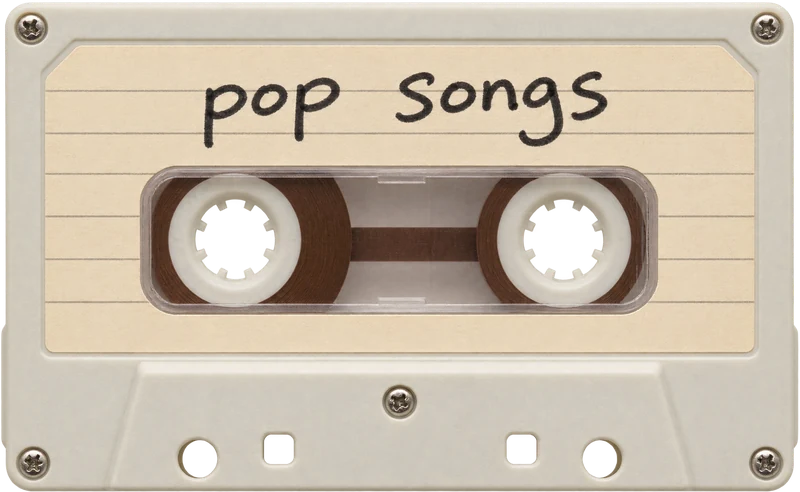
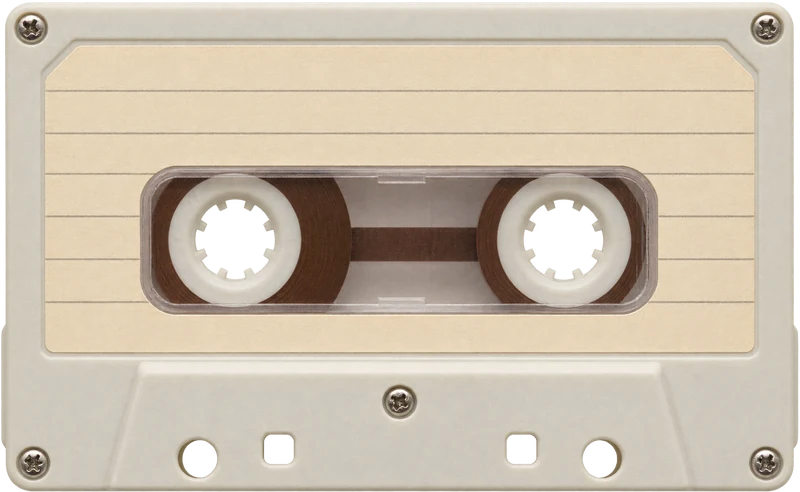
fix: casstte player

Changed region(s): [[0.5, 0.122, 0.7812, 0.3049], [0.25, 0.1524, 0.4375, 0.3049]]

diff --git a/js/player.js b/js/player.js
@@ -62,6 +62,38 @@
         return `<svg viewBox="-50 -50 100 100" aria-hidden="true"><circle r="50" fill="#15110f"/>${teeth}<circle r="17" fill="#2f2c2a"/><circle r="6" fill="#a3a09a"/></svg>`;
     })();
 
+    /* 이름표(마스킹테이프). 그림이 있으면 그림을, 없으면 코드로 그린 테이프를 씁니다 */
+    let tagImageOk = false;
+    if (typeof TAG_IMAGE === "string" && TAG_IMAGE) {
+        const probe = new Image();
+        probe.onload = () => {
+            tagImageOk = true;
+            document
+                .querySelectorAll(".tape-tag")
+                .forEach((tag) => applyTagImage(tag));
+        };
+        probe.src = TAG_IMAGE;
+    }
+    function applyTagImage(tag) {
+        tag.classList.add("has-img");
+        tag.style.backgroundImage = 'url("' + TAG_IMAGE + '")';
+    }
+    function makeTag(info) {
+        const tag = document.createElement("span");
+        tag.className = "tape-tag";
+        tag.style.setProperty(
+            "--tilt",
+            (typeof info.tilt === "number" ? info.tilt : -2) + "deg",
+        );
+        if (info.color) tag.style.setProperty("--tag-ink", info.color);
+        const txt = document.createElement("span");
+        txt.className = "tape-tag-text";
+        txt.textContent = info.text;
+        tag.appendChild(txt);
+        if (tagImageOk) applyTagImage(tag);
+        return tag;
+    }
+
     function makeTape(t) {
         const el = document.createElement("div");
         el.className = "tape";
@@ -76,14 +108,7 @@
             h.innerHTML = HUB_SVG;
             el.appendChild(h);
         }
-        if (t.label && t.label.text) {
-            const p = document.createElement("p");
-            p.className = "tape-label";
-            p.textContent = t.label.text;
-            p.style.top = t.label.top || "22%";
-            p.style.color = t.label.color || "#222";
-            el.appendChild(p);
-        }
+        if (t.tag && t.tag.text) el.appendChild(makeTag(t.tag));
         return el;
     }
 
@@ -680,8 +705,10 @@
         spot.className = "shelf-spot";
         spot.appendChild(makeTape(t));
         const name = document.createElement("span");
+        /* 테이프 하단 이름 제거 
         name.className = "shelf-name";
         name.textContent = t.name;
+        */
         b.append(spot, name);
         b.addEventListener("click", () => chooseTape(t));
         shelf.appendChild(b);

diff --git a/js/tapes.js b/js/tapes.js
@@ -16,15 +16,18 @@
    테이프 항목
    - name  : 선반과 화면에 보이는 테이프 이름
    - image : 테이프 그림
-   - label : 라벨 위에 손글씨로 올릴 글자. 그림에 이미 글씨가 있으면 text 를 "" 로 둡니다.
-             top 은 글자의 세로 위치(테이프 높이 기준), color 는 글자 색입니다.
+   - tag   : 테이프 라벨에 붙는 이름표(마스킹테이프).
+             text  이름표에 쓸 글자
+             color 글자 색 (생략하면 진한 먹색)
+             tilt  기울기, 도 단위 (생략하면 -2)
+             이름표를 떼려면 tag: null 로 두면 됩니다.
    ───────────────────────────────────────────────────────────── */
 const TAPES = [
     {
         id: "coral",
         name: "sunset tape",
         image: "./image/cassettePlayer/tape-coral.webp",
-        label: { text: "sunset tape", top: "18%", color: "#4a1710" },
+        tag: { text: "검정 치마", color: "#4a1710", tilt: -1 },
         tracks: [
             {
                 title: "EVERYTHING",
@@ -68,7 +71,7 @@ const TAPES = [
         id: "blue",
         name: "blue tape",
         image: "./image/cassettePlayer/tape-blue.webp",
-        label: { text: "blue tape", top: "25%", color: "#1b2c8f" },
+        tag: { text: "wave to earth", color: "#1b2c8f", tilt: 1.5 },
         tracks: [
             {
                 title: "love.",
@@ -112,7 +115,7 @@ const TAPES = [
         id: "pop",
         name: "pop songs",
         image: "./image/cassettePlayer/tape-pop.webp",
-        label: { text: "" },
+        tag: { text: "pop songs", tilt: -2 },
         tracks: [
             {
                 title: "Malibu Nights",
@@ -153,6 +156,9 @@ const TAPES = [
         ],
     },
 ];
+
+/* 이름표(마스킹테이프) 그림. 그림을 못 읽으면 코드로 그린 이름표가 대신 나옵니다 */
+const TAG_IMAGE = "assets/masking-tape.webp";
 
 /* 페이지를 열었을 때 미리 꽂혀 있을 테이프의 id. 빈 덱으로 시작하려면 null */
 const START_TAPE = "pop";

diff --git a/css/cassettePlayer.css b/css/cassettePlayer.css
@@ -128,21 +128,64 @@ body {
     height: 100%;
     display: block;
 }
-.tape-label {
+/* 이름표(마스킹테이프): 테이프 라벨 위쪽 가운데에 붙습니다 */
+.tape-tag {
     position: absolute;
-    left: 9%;
-    right: 9%;
-    margin: 0;
-    text-align: center;
+    left: 50%;
+    top: 20.5%;
+    width: 58%;
+    height: 15.5%;
+    transform: translate(-50%, -50%) rotate(var(--tilt, -2deg));
+    display: flex;
+    align-items: center;
+    justify-content: center;
+    padding: 0 7%;
+    pointer-events: none;
+    /* 그림이 없을 때 쓰는 코드 테이프 */
+    background:
+        repeating-linear-gradient(
+            90deg,
+            rgba(120, 100, 70, 0.05) 0 1px,
+            transparent 1px 4px
+        ),
+        linear-gradient(
+            180deg,
+            rgba(255, 250, 236, 0.93),
+            rgba(240, 230, 207, 0.93)
+        );
+    clip-path: polygon(
+        0 4%,
+        2% 18%,
+        0 33%,
+        2.4% 50%,
+        0.4% 66%,
+        2% 82%,
+        0 96%,
+        100% 100%,
+        98% 84%,
+        100% 68%,
+        97.6% 52%,
+        99.6% 36%,
+        98% 18%,
+        100% 2%
+    );
+    filter: drop-shadow(0 0.4cqw 0.5cqw rgba(60, 40, 20, 0.28));
+}
+.tape-tag.has-img {
+    background-repeat: no-repeat;
+    background-size: 100% 100%;
+    background-position: center;
+    clip-path: none;
+}
+.tape-tag-text {
     font-family: var(--font-hand);
     font-weight: 700;
-    font-size: 8.4cqw;
+    font-size: 8cqw;
     line-height: 1;
+    color: var(--tag-ink, #2a2420);
     white-space: nowrap;
     overflow: hidden;
     text-overflow: ellipsis;
-    transform: translateY(-50%) rotate(-1.2deg);
-    pointer-events: none;
 }
 
 @keyframes spin {

diff --git a/cassettePlayer.html b/cassettePlayer.html
@@ -74,7 +74,7 @@
 
             <!-- 테이프 선반 -->
             <section class="shelf-wrap">
-                <h2 class="head">테이프</h2>
+                <!-- <h2 class="head">테이프</h2> -->
                 <div class="shelf" id="shelf"></div>
             </section>
 
